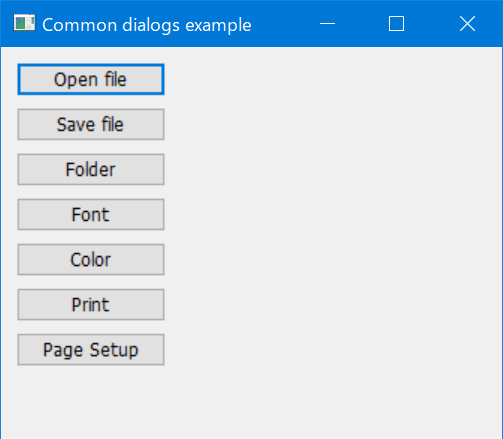
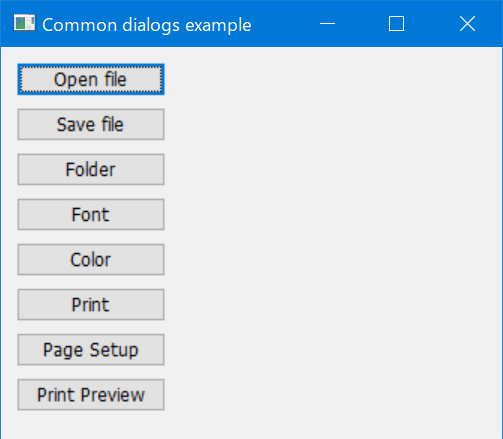
Update commondialog example for printing module

Changed region(s): [[0.0298, 0.8588, 0.328, 0.9476], [0.0298, 0.1481, 0.328, 0.2073], [0.0596, 0.2073, 0.2982, 0.2369]]

diff --git a/README.md b/README.md
@@ -10,6 +10,7 @@ DFL is a Win32 windowing library for the D language.
 ![screen shot](./examples/splitter/image/screenshot.png "screen shot")
 ![screen shot](./examples/imagelist/image/screenshot.png "screen shot")
 ![screen shot](./examples/commondialog/image/screenshot.png "screen shot")
+![screen shot](./examples/commondialog/image/screenshot2.png "screen shot")
 ![screen shot](./examples/tooltip/image/screenshot.png "screen shot")
 ![screen shot](./examples/progressbar/image/screenshot3.png "screen shot")
 ![screen shot](./examples/clipboard/image/screenshot.png "screen shot")
@@ -22,7 +23,10 @@ DFL is a Win32 windowing library for the D language.
 ![screen shot](./examples/richtextbox/image/screenshot.png "screen shot")
 
 ## Recent major features
-- **PrintDialog and PrintSetupDialog is now support (Experimental).**
+- **Module "dfl.printing" is now comming.**
+  - **PrintDialog**
+  - **PrintSetupDialog**
+  - **PrintPreviewDialog**
 - DUB is available for DFL.
 - Remove dflexe.
 - Remove GTK-based DFL.

diff --git a/examples/commondialog/README.md b/examples/commondialog/README.md
@@ -1,2 +1,3 @@
 # Screen Shot
 ![screen shot](./image/screenshot.png "screen shot")
+![screen shot](./image/screenshot2.png "screen shot")
